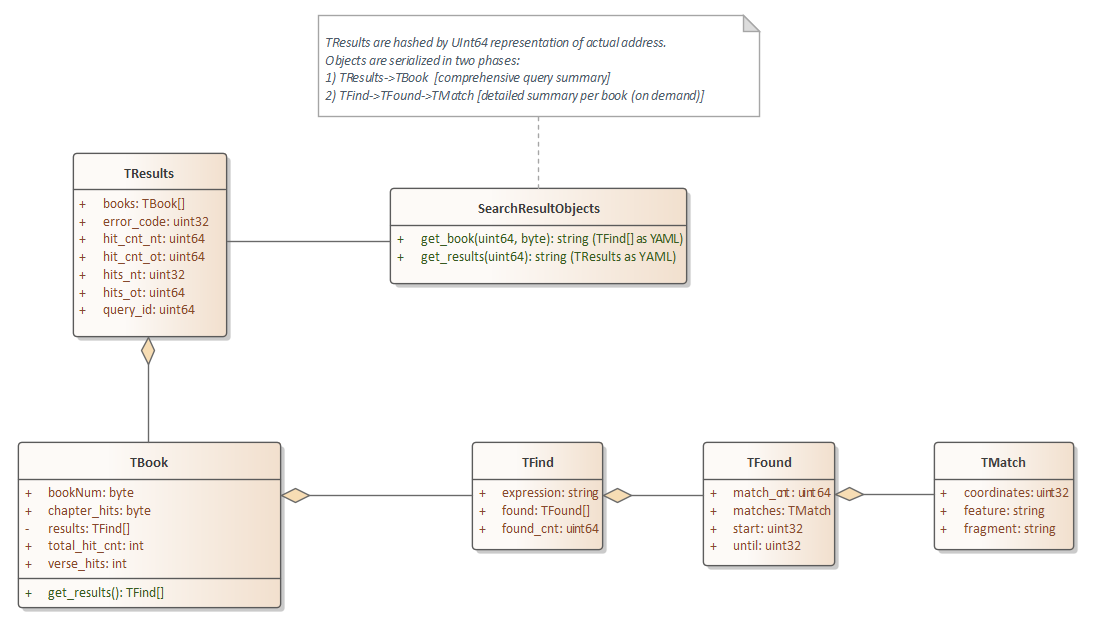
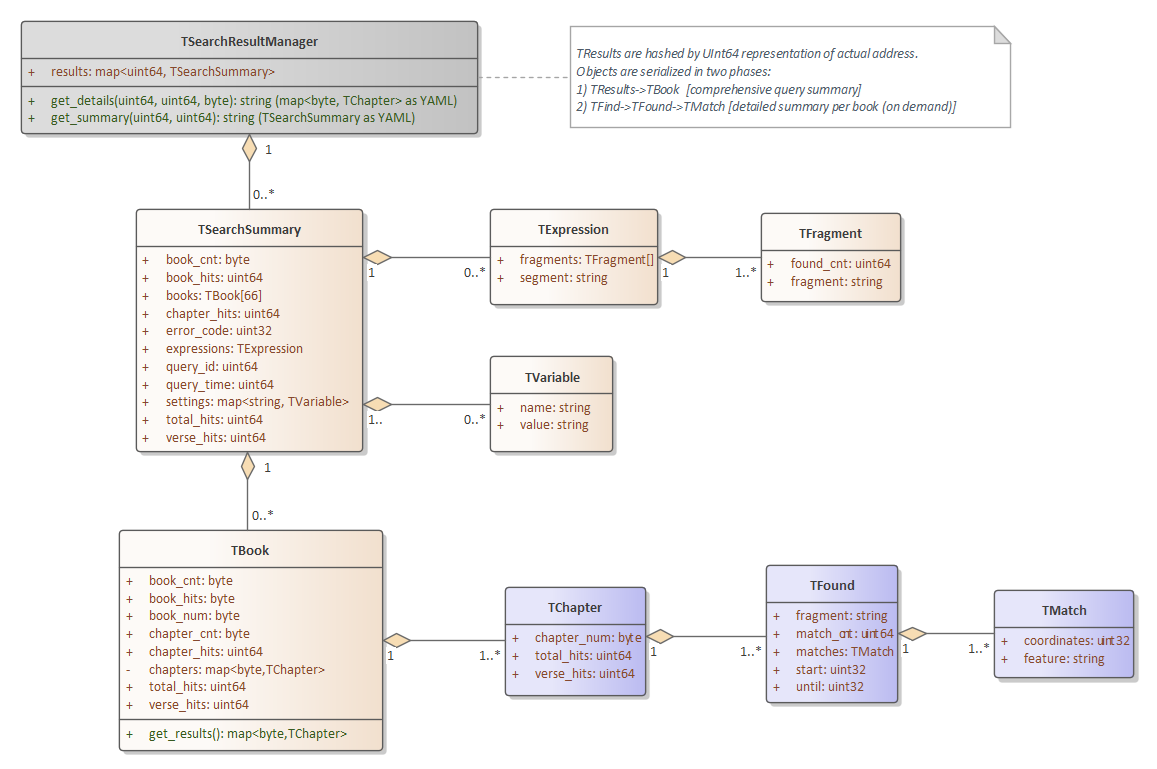
More details on YAML results

diff --git a/README.md b/README.md
@@ -58,13 +58,13 @@ Evidenced by Figure-1, serialization is used for parameters when crossing langua
 
 ### AV-Engine Internals
 
-As depicted in Figure 3, AV-Engine is called in-proc by its consumers. It uses standard C# interfaces for the parameter and the return type in its single exposed public class method. The diagram depicts dependent interfaces and internal utility-class definitions. Consumers will have full visibility across these public interfaces, but the underlying internal utility classes do all the work. In effect, each internal class manifests a facade that encapsulates away any remnants of the YAML-based C++ API (with respect to AV-Engine/AVX-Framework consumers).
+As depicted in Figure 3, AV-Engine is called in-proc by its consumers. It uses standard C# interfaces for the parameter and the return type in its single exposed public class method. The diagram depicts dependent interfaces and internal utility-class definitions. Consumers will have full visibility across these public interfaces, but the underlying internal utility classes do all the work. In effect, each internal class manifests a facade that encapsulates away any remnants of the YAML-based C++ API (with respect to AV-Engine/AVX-Framework consumers).  It is important to note that AV_Engine always delegates command parsing and model generation to blueprint-blue (C#) + pinshot-blue (Rust).  Once the blueprint object model is generated, all explicit commands are executed directly AV-Engine. Implicit variable settings are also invoked locally by AV-Engine. Only QFind objects are passed into the AVXSearch (C++) library [via P/Invoke].
 
 ![](AVXSearch/AV-Engine-poco.png)
 
-**Figure-3**: Plain Old C# Objects (POCO) are used in the interface to AV-Engine
+**Figure-3**: Plain Old C# Objects (POCO) are used in the interface to AV-Engine (FIGURE IS OBSOLETE AND NEEDS TO BE UPDATED)
 
-As depicted in Figure 4, the class diagram intuitively reveals the two-phased approach to fetching results as YAML (C# obtaining data from C++).
+As depicted in Figure 4, the class diagram intuitively reveals the two-phased approach to fetching results as YAML (C# obtaining data from C++). The gray box is not serialized; it effectively represents the instantiated C++ object table. Summary information, represented by the golden objects are a serialization for the requested TSearchSummary. query_id is the address of the TSearchSummary object, as instantiated in the results map (query_check must be passed as a safety-net to mitigate hijacking). The purple objects are the serialization of map<byte, TChapter>: these details are fetched per book [1 .. 66]. All requests to the C++ TResultManager require both a query_id and a query_check. The key to the map is the query_id. query_check assures that the caller supplied the appropriate check value. Of course, without an appropriate query object, AVXSearch would not have an object model for the search query. That object model [aka blueprint] is defined the AVX-Quelle specification.
 
 ![](AVXSearch/AVX-Results.png)
 
